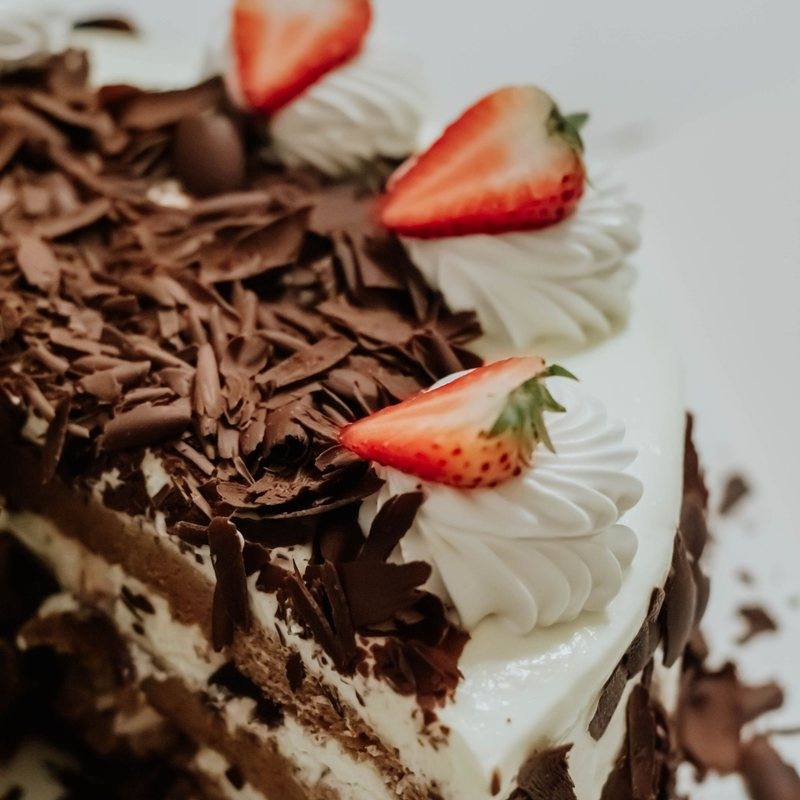
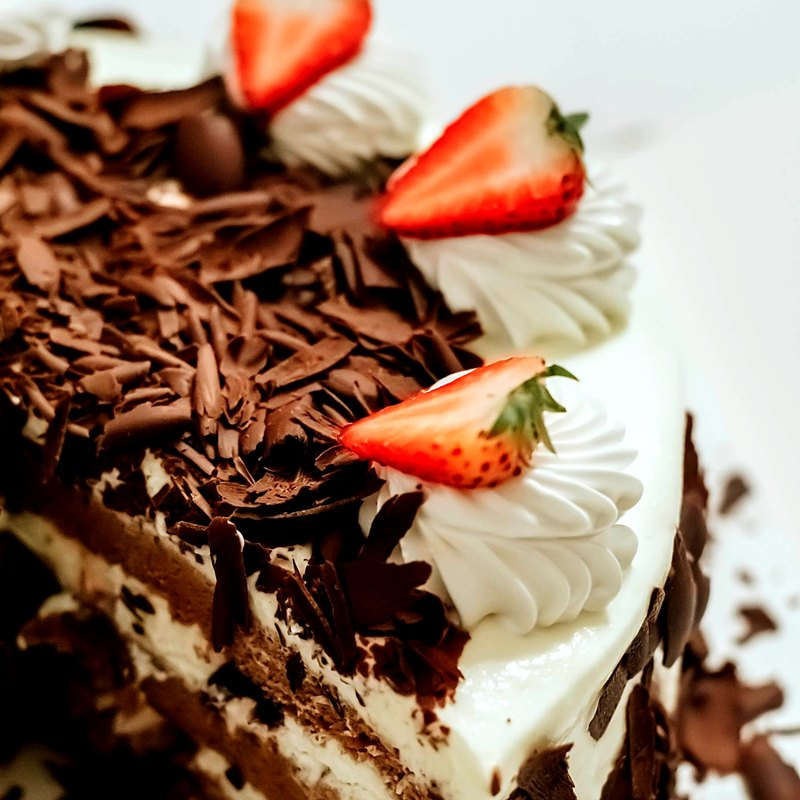
Foto nova do pão francês e foto do bolo com mais contraste e nitidez

diff --git a/index.html b/index.html
@@ -426,7 +426,7 @@ header.main.scrolled .logo{transform:scale(.88)}
 <main id="inicio">
 <section class="hero" aria-label="Destaques">
   <div class="slide on"><img src="fotos/hero-esfiha.jpg" alt="Esfihas assadas"></div>
-  <div class="slide"><img src="fotos/hero-1.jpg" alt="Vitrine com croissants e doces" loading="lazy"></div>
+  <div class="slide"><img src="fotos/hero-1.jpg" alt="Pão francês fresquinho na vitrine" loading="lazy"></div>
   <div class="slide"><img src="fotos/hero-2.jpg" alt="Bolo de chocolate com morangos" loading="lazy"></div>
   <div class="slide"><img src="fotos/hero-3.jpg" alt="Prateleiras com pães frescos" loading="lazy"></div>
   <div class="slide"><img src="fotos/hero-4.jpg" alt="Sanduíches no pão artesanal" loading="lazy"></div>
